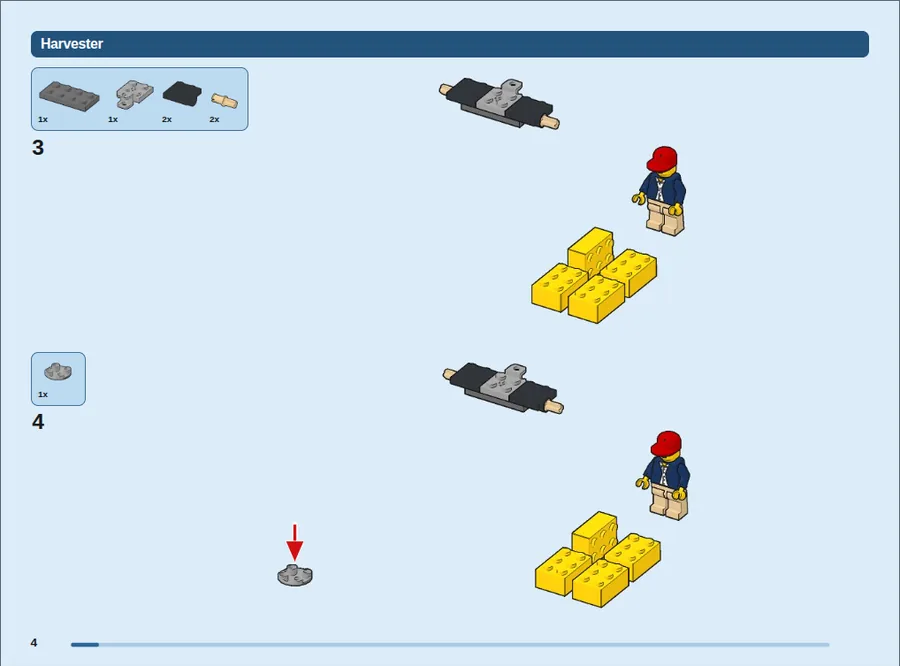
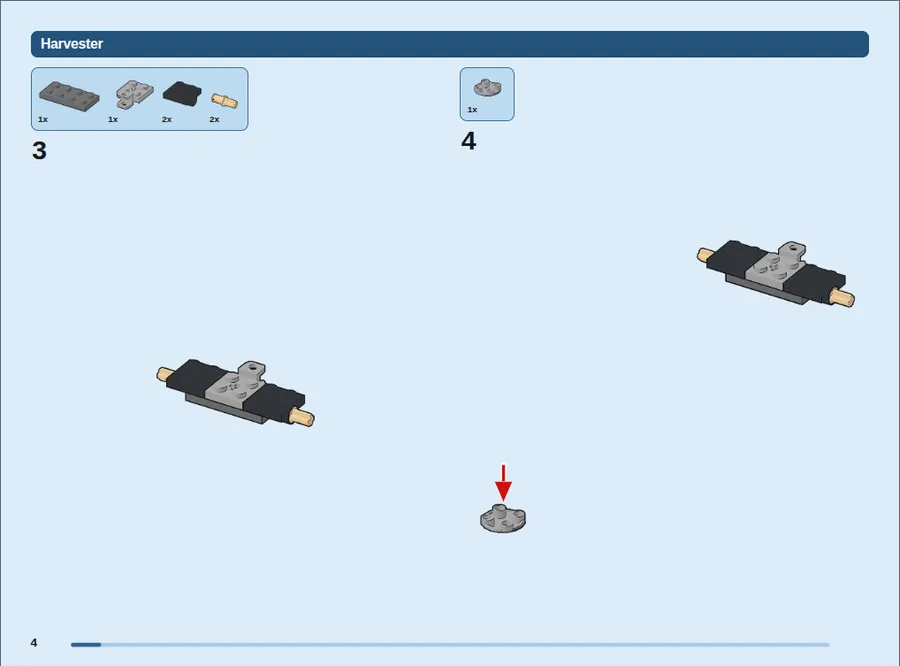
The booklet's steps measured buildable on sets nobody tuned on
On the held-out sample, against main, things put in under one already
there fell from 19.6% to 11.3%, steps with a hidden new thing from 19.2%
to 13.8%, and steps with a floating thing from 18.1% to 14.9%. Order
agreement held, 0.27 to 0.31. Planning takes 1.2 times main's, and the
Snowspeeder plans in 0.58 s.

The 8% aimed at for floating and put in under was missed. A model turned
on its stand, the Technic sets and vehicles built before their wheels
stand in the way, and INSTRUCTIONS.md says how much each.

The pages were read: 7636's harvester begins on a stage of its own, and
6718's warrior is a callout again. The booklet probe now builds its plates
against the wall, where the turn sign is still needed, and checks the
plates a hand's width away are drawn on their own.

The flexible-parts search is paced like the rest of the sub-assembly
search: on Orthanc that search had a frame of 120 ms of its own.

diff --git a/docs/INSTRUCTIONS.md b/docs/INSTRUCTIONS.md
@@ -13,11 +13,11 @@ keeps it so.
 This page measures how close those worked-out steps come to the steps people
 chose for real sets, says what the measure showed, and what changed.
 
-**In short** (2026-10-15, two samples of 100 sets):
+**In short** (2026-10-16, two samples of 100 sets):
 
 - **Order.** Our worked-out order agrees with the author's at Kendall tau
-  0.27 to 0.29 on the two samples, before this work and after it alike,
-  barely above sorting by height (0.23, 0.25). A graph transformer trained on LEGO® build orders reached 0.44
+  0.28 on tune and 0.31 on the held-out sample, where it was 0.27 to 0.29
+  before this work, barely above sorting by height (0.23, 0.25). A graph transformer trained on LEGO® build orders reached 0.44
   [gt-asp]. Nearly all of the gap is which sub-model the author builds first:
   built in the author's order of sub-models, ours would score 0.86, and no
   rule from the model's shape gets past 0.26. The shape does not say it.
@@ -27,16 +27,21 @@ chose for real sets, says what the measure showed, and what changed.
   (paired change +0.22, 95% interval +0.16 to +0.29, better in 61 files and
   worse in 2), and steps with a floating part 15.0% to 11.4%.
 - **Every step buildable.** One step in five of ours left a part floating,
-  against one in thirty of the authors', because the planner reads what
-  rests on what from bounding boxes. Technic pins now go into one part
-  before the next goes on: on the held-out sample, steps with a floating
-  thing 20.9% to 17.9% (paired -3.0, -4.8 to -1.3) and steps with a hidden
-  new thing 21.5% to 19.6% (-1.9, -3.7 to -0.3). The app's own build check
-  moves the same way, within its noise. Reading the parts' shapes instead
-  was tried: fourteen times the planning time for a small gain, so it is the
-  next unit, not this one.
+  against one in thirty of the authors', because the planner read what
+  rests on what from bounding boxes. It now reads the studs, by the build
+  check's own rule. On the held-out sample, against the code before it:
+  things put in under one already there 19.6% to 11.3% (paired -8.4, -13.4
+  to -4.8), steps with a hidden new thing 19.2% to 13.8% (-5.4, -8.6 to
+  -2.7), and steps with a floating thing 18.1% to 14.9% (-3.2, -5.2 to
+  -1.4). The authors': 0.8%, 6.7% and 3.4%. Order agreement did not suffer
+  (0.27 to 0.31, +0.03, -0.01 to +0.08), and the 100 files plan in 19.2 s
+  where they took 16.0 s. The aim was 8% for floating and for put in under.
+  A model turned on its stand, the Technic sets and vehicles built before
+  their wheels stood in the way (What is left).
 - **Pages.** A small model is no longer cut into "Part 1" and "Part 2": 918
-  Space Transport's booklet lost a one-step page and a repeated banner.
+  Space Transport's booklet lost a one-step page and a repeated banner. A
+  section that touches nothing built before it is drawn on its own: 7636's
+  harvester no longer begins in the air above the hay bales.
 
 ## The measure
 
@@ -230,11 +235,56 @@ same part on the same layer, and from twice as far (one-part steps 39.4% to
 37.6%, nothing else moved); a part hanging under another put in with it (no
 change); covers (above).
 
+Then what rests on what, 2026-10-16:
+
+4. **By the studs, not the boxes** (`Instructions._supports_of`,
+   `Joints.studs_in`, `Instructions.Covers`). A stud reaching up into a
+   part means that part sits on the stud's owner; reaching down, the part
+   is turned over on top of it. The stud's direction says which of two
+   parts rests on the other, where covers read as touching said each rested
+   on each. The rule is the build check's, moved into `Joints.studs_in`:
+   the check asks its lattice what is past a stud's tip, and the booklet,
+   which holds no lattice, asks the few parts whose boxes hold the tip
+   whether their covers do, each in its own frame. `instructions_probe`
+   holds the two to the same 816 stud pairs on the station. A part no stud
+   seats (a figure's, a Technic beam, a tile on a side stud) rests on what
+   its box sits on, as before.
+5. **A plate pressed up under parts goes in with them** (`_pressed_up`).
+   A 1 x 3 under a sign, a 2 x 2 under a lantern: read by its studs alone,
+   what it carries needs it, so it went in first, on nothing. It goes in in
+   the step of the last part it is under.
+6. **A part on a side stud waits for what holds it** (`Node2.held_by`),
+   not only for what its box sits on. Vernie's tiles went on before the
+   bricks whose side studs hold them.
+7. **A sub-model put on at an angle is built on the side** (`_turned`), of
+   any size up to half the model: square, in the hand, with steps of a
+   page's size, then put on turned. On the five biggest tune files, 19 in
+   20 of the things put in under were turned parts of a sub-model too big
+   to be a callout, and their authors put in none.
+8. **A loop gives up a guess before a callout** (`_contract`, `_ease`).
+   Needs guessed from touching boxes go first, then those read off a box,
+   and only then the smallest sub-assembly on the loop. A hose drawn
+   through a figure's hand had cost a 664-part trailer, a locomotive and
+   the figures riding them their callouts.
+9. **A flexible thing goes in as one** (`_find_bundles`). 6891's hose,
+   drawn a segment at a time, was 52 things floating, in 28 of its 83 steps.
+10. **A section that touches nothing built before it is drawn on its own**
+    (`BookletMaker._find_apart`), framed on itself as a booklet draws a
+    second vehicle, until the build moves on. What it touches is read off
+    the parts' boxes.
+
+Tried and not kept: reading clips, hinges and balls as well (`Joints.rounds`,
+`balls`). They changed nothing measured but the planning time, 2.5 s to
+4.1 s on fifteen files.
+
 ## After
+
+### The author's steps and Technic pins (2026-10-15)
 
 **Proof**, the sample nothing was tuned on: 100 files, 52,435 parts. Before
 is the code at 7a55e86, after is this change; the interval is after's, and
-`compare` gives the paired change file by file (in "In short").
+`compare` gives the paired change file by file: steps with a floating thing
+-3.0 (-4.8 to -1.3), steps with a hidden new thing -1.9 (-3.7 to -0.3).
 
 | Measure | the author's | the booklet's reading of them, before → after | ours, before → after | ours, no sub-models, before → after | bottom up |
 |---|---:|---:|---:|---:|---:|
@@ -262,6 +312,57 @@ is the code at 7a55e86, after is this change; the interval is after's, and
 | parts the build check calls floating at sampled steps | 6.0% | – | 12.8% → **11.9% (6.3–18.7)** | 18.7% → **17.2% (10.2–25.0)** | – |
 | steps in all | 9,633 | 9,794 → 9,992 | 14,306 → 13,579 | 12,730 → 11,804 | 6,710 |
 
+### What rests on what, by the studs (2026-10-16)
+
+**Proof**, 100 files, 52,435 parts. Before is main at 2789cd0, whose plans
+are file for file those of main when this work began; after is this change
+on it. Both ran on this machine the same morning; the interval is after's.
+The paired change, file by file
+(`compare`): things put in under -8.4 (-13.4 to -4.8), steps with a hidden
+new thing -5.4 (-8.6 to -2.7), steps with a floating thing -3.2 (-5.2 to
+-1.4), tau +0.03 (-0.01 to +0.08), better in 54 files and worse in 46.
+
+| Measure | the author's | the booklet's reading of them, before → after | ours, before → after | ours, no sub-models, before → after | bottom up |
+|---|---:|---:|---:|---:|---:|
+| Kendall tau-b against the author | 1.00 | 0.94 → **0.93 (0.89–0.96)** | 0.27 → **0.31 (0.24–0.37)** | 0.26 → **0.28 (0.22–0.34)** | 0.25 |
+| author's same-step pairs kept together | 100.0% | 95.6% → **94.8% (86.6–98.6)** | 10.9% → **12.0% (8.8–18.0)** | 8.9% → **18.6% (8.7–37.0)** | 9.1% |
+| steps for each of the author's | 1.00 | 1.00 → **1.00 (1.00–1.03)** | 1.14 → **1.10 (1.02–1.26)** | 0.96 → **0.93 (0.85–1.07)** | 0.77 |
+| author's sub-assemblies built on the side | 97.9% | 64.7% → **62.0% (51.7–72.3)** | 39.5% → **54.1% (42.3–66.2)** | 0.0% → **0.0% (0.0–0.0)** | 0.0% |
+| steps with a hidden new thing | 6.7% | 9.3% → **8.7% (6.9–10.5)** | 19.2% → **13.8% (11.1–16.4)** | 23.5% → **22.0% (18.9–25.0)** | 21.0% |
+| things put in under one already there | 0.8% | 13.1% → **8.1% (5.4–11.2)** | 19.6% → **11.3% (6.0–17.6)** | 22.0% → **20.3% (13.2–28.1)** | 26.1% |
+| steps with a floating thing | 3.4% | 11.4% → **9.6% (6.7–12.8)** | 18.1% → **14.9% (11.2–18.9)** | 21.9% → **20.8% (16.5–25.2)** | 25.9% |
+| parts the build check calls floating at sampled steps | 3.1% | – | 20.5% → **21.3% (12.2–31.7)** | 25.6% → **26.0% (15.9–38.3)** | – |
+| steps in all | 11,890 | 12,230 → 12,274 | 13,090 → 14,561 | 12,098 → 11,740 | 7,350 |
+
+More of the authors' sub-assemblies are built on the side (39.5% to 54.1%),
+from sub-models put on at an angle, and there are more steps (13,090 to
+14,561). The booklet's reading of the authors' own steps gains too, since it
+reads support and finds sub-assemblies the same way: things put in under
+13.1% to 8.1% (-5.0, -8.1 to -2.4).
+
+**Tune**, 100 files, 48,037 parts, against the code of the section above:
+things put in under -11.6 (-17.2 to -7.1), steps with a hidden new thing
+-6.2 (-8.8 to -3.4), steps with a floating thing -4.2 (-6.4 to -1.8), tau
+-0.01 (-0.05 to +0.03). Same-step pairs kept together jump on one file:
+9391's crane string, drawn in 681 pieces its author puts on in one step, now
+goes in as one flexible thing.
+
+| Measure | the author's | the booklet's reading of them, before → after | ours, before → after | ours, no sub-models, before → after | bottom up |
+|---|---:|---:|---:|---:|---:|
+| Kendall tau-b against the author | 1.00 | 0.92 → **0.91 (0.87–0.95)** | 0.29 → **0.28 (0.21–0.34)** | 0.22 → **0.22 (0.16–0.28)** | 0.23 |
+| author's same-step pairs kept together | 100.0% | 92.5% → **93.1% (82.0–98.6)** | 6.1% → **31.2% (6.1–62.3)** | 3.8% → **64.7% (26.3–82.7)** | 4.1% |
+| steps for each of the author's | 1.00 | 1.02 → **1.02 (1.00–1.04)** | 1.25 → **1.29 (1.08–1.54)** | 1.13 → **1.15 (0.88–1.29)** | 0.83 |
+| author's sub-assemblies built on the side | 97.4% | 64.7% → **62.2% (55.8–69.2)** | 40.1% → **57.1% (50.7–64.0)** | 0.0% → **0.0% (0.0–0.0)** | 0.0% |
+| steps with a hidden new thing | 6.0% | 8.3% → **8.0% (6.6–9.8)** | 19.9% → **13.7% (11.9–15.6)** | 25.4% → **21.4% (18.6–23.9)** | 23.0% |
+| things put in under one already there | 1.2% | 11.7% → **7.7% (5.7–10.1)** | 19.4% → **7.9% (5.8–10.2)** | 23.2% → **17.4% (13.8–21.7)** | 26.1% |
+| steps with a floating thing | 2.9% | 11.8% → **10.0% (7.3–12.9)** | 16.9% → **12.8% (9.7–15.7)** | 20.8% → **20.0% (16.1–23.8)** | 29.4% |
+| parts the build check calls floating at sampled steps | 6.0% | – | 11.9% → **11.3% (5.6–19.9)** | 17.2% → **13.8% (7.7–21.7)** | – |
+| steps in all | 9,633 | 9,992 → 9,983 | 13,579 → 13,450 | 11,804 → 9,656 | 6,710 |
+
+Planning took 19.2 s over the 100 proof files, against 16.0 s on main
+(1.2 times), the slowest file 2.0 s (76161, 2,396 parts); on tune 20.6 s
+against 18.2 s. The 1,454-part Rebel Snowspeeder plans in 0.58 s, against 0.59 s.
+
 ## The pages
 
 Booklets of three proof models with their steps taken out, made on the
@@ -280,19 +381,47 @@ After: one build, four steps to the first page, 25 steps where there were 29.
 
 ![918 after, page 2](instructions/918-after-page2.webp)
 
-Still reading badly, and left: 7636 Combine Harvester builds its sections in
-place, so the harvester's first axle plate is drawn in the air above the hay
-bales and the farmer of the sections before it, and a 2 x 2 round plate on
-the ground far from both is a step of its own. A real booklet draws a new
-vehicle on its own. Framing a section on itself when it touches nothing built
-before it is the booklet's next fix, with lifting the size limit on what is
-built on the side.
-
-![7636 after, page 4](instructions/7636-after-page4.webp)
-
 Callouts read as before: a figure built in its own box with an arrow to its
 seat (918 step 5), and a long sub-assembly on framed pages of its own (6059
 Knight's Stronghold's cart).
+
+Then, reading the studs (2026-10-16), two more proof models, made the same
+way on the desktop with main at 2789cd0 and with this change.
+
+7636 Combine Harvester (372 parts), before: the harvester's first axle plate
+is drawn in the air above the hay bales and the farmer of the sections before
+it. Three of the 2 x 2 round plates its base stands on are steps of their
+own, on the ground, and the base goes down at one end, then the other, then
+across the middle.
+
+![7636 before, page 4](instructions/7636-before-page4.webp)
+![7636 before, page 7](instructions/7636-before-page7.webp)
+
+After: the harvester begins on a stage of its own. One round plate is still
+a step of its own; the next goes in in the step of the plate pressed onto
+it, and the base grows from one end. 101 steps where there were 109.
+
+![7636 after, page 4](instructions/7636-after-page4.webp)
+![7636 after, page 5](instructions/7636-after-page5.webp)
+
+Each of its first 40 pages can be built as drawn. What still reads badly:
+the axle plate of step 3 hangs in the air beside the base until step 18
+joins them. By the measure 75 of its 100 steps float a thing (61% before),
+because the harvester stands on its wheels, which go on last, and the
+measure holds only the model's first parts, the hay bales, to the table.
+
+6718 Raindance Ridge (80 parts), before: the warrior is built in place, a
+torso and two legs in step 12 and the hips that join them a step later, in
+between.
+
+![6718 before, page 8](instructions/6718-before-page8.webp)
+
+After: he is a callout, built whole and put on, and so are the rider and the
+horse. 17 steps where there were 28. By the measure, on its shuffled copy,
+steps with a floating thing 25.0% to 0.0% and things put in under 24.7% to
+8.3%.
+
+![6718 after, page 7](instructions/6718-after-page7.webp)
 
 ## What is left
 
@@ -302,20 +431,38 @@ Knight's Stronghold's cart).
   person's own model lists them in the order they made them. Following it
   would be reading, not planning, and on these files it reads the answer, so
   it was not done here; it is the obvious next step for files that carry it.
-- **Every step buildable.** One step in six still floats something by the
-  probe's graph, against one in thirty for authors, and the app's build check
-  calls 12% to 21% of the parts our sampled steps add floating, against 3% to
-  6% of the authors'. The cause is the bounding-box supports above.
-- **Sub-assemblies.** Ours builds on the side only sub-models of at most 60
-  parts and under 30% of the model (`ASSEMBLY_MOST`), 40% of the authors'.
+- **Every step buildable.** On the held-out sample one step in seven still
+  floats something by the probe's graph (14.9%), against one in thirty for
+  authors, and 11.3% of things go in under one already there, against 0.8%.
+  Both miss the 8% this work aimed at. Three things stand in the way:
+  - **A model turned on its stand.** 76161's Batwing stands on its edge.
+    Built in the world's frame, 1,692 of its 2,396 things go in under one
+    already there, 29% of all such things in the sample; without it the
+    sample is at 8.4%. Its author builds it flat and stands it up. A turned
+    sub-model is built on the side up to half the model, and here the whole
+    model is turned.
+  - **Technic.** The 7 Technic files float a thing in 31.5% of steps (38.3%
+    before), the other 93 in 13.2% (15.8%). Their parts are held by pins and
+    axles, and this work read the studs.
+  - **A vehicle that is not built first.** The measure holds only the model's
+    first parts to the table. A body built before its wheels, which go on
+    last as a set's do, floats until they do: 7636's harvester is 75 of its
+    100 steps.
+
+  The app's build check calls 21% of the parts our sampled steps add
+  floating, as before (20.5% to 21.3%, within its noise), against 3% of the
+  authors'.
+- **Sub-assemblies.** Ours builds on the side sub-models of at most 60
+  parts and under 30% of the model (`ASSEMBLY_MOST`), and a sub-model put on
+  at an angle up to half the model: 54% of the authors' (from 40%).
   The rest are built in place as sections. Authors build a floor of a modular
   building apart and stack it; the booklet can show a long callout on pages
   of its own, so lifting the limit for a sub-model that holds together and
   goes on whole is open.
 - **The author's steps as the booklet draws them** still build a big
-  sub-model where it stands, before what it stands on (about 12% of steps
-  float something, against 3% for the author's own build), because only small
-  sub-models become callouts.
+  sub-model where it stands, before what it stands on (9.6% of steps float
+  something on the held-out sample, from 11.4%, against 3.4% for the author's
+  own build), because only small sub-models become callouts.
 
 ## Sources
 

diff --git a/.claude/skills/verify/features/view.md b/.claude/skills/verify/features/view.md
@@ -536,7 +536,11 @@ picture the assistant is shown.
   as before. A
   plate pressed up under parts by its own studs with nothing beneath it goes in
   in the step of the last of them (`_pressed_up`, `Node2.under`), even past the
-  step's size.
+  step's size. On the held-out steps-score sample (2026-10-16, against main at
+  2789cd0): things put in under one already there 19.6% to 11.3%, steps with a
+  floating thing 18.1% to 14.9%, steps with a hidden new thing 19.2% to 13.8%,
+  tau 0.27 to 0.31; planning the 100 files 16.0 s to 19.2 s, the 1,454-part
+  Rebel Snowspeeder 0.58 s.
   Sub-assemblies are built on the side, as a real booklet's callouts are: a
   minifigure (by its parts, `Minifig.is_figure`), and any sub-model the file
   places that is small (at most `ASSEMBLY_MOST`, 60 parts, and under 30% of
@@ -688,8 +692,12 @@ picture the assistant is shown.
   touches nothing built before it (a second vehicle, by the parts' boxes) is
   drawn on a stage of its own for its steps, as a callout is, and framed on
   itself (`BookletMaker._find_apart`, `_where`), for 7636's harvester, which
-  began as an axle plate drawn in the air over the hay bales (its pages after
-  the change not yet looked at). New parts are not
+  began as an axle plate drawn in the air over the hay bales. Read page by
+  page on the desktop (2026-10-16, `--model=… --booklet=…` on Xvfb, then
+  `tools/web/booklet_print.mjs`): 7636's first 40 pages each buildable, the
+  harvester's first steps on a stage of their own, its axle plate still in
+  the air beside the base until step 18 joins them; docs/INSTRUCTIONS.md has
+  the pages. New parts are not
   highlighted: modern booklets keep colours true and rely on the parts box and
   the ink line (the ink shader can ring them, `mark_new`, off). Pictures are
   5 px a millimetre, 4.2 past 300 steps and 3.6 past 1,000 (Orthanc's 1,405
@@ -971,7 +979,9 @@ godot --path . --resolution 1200x800 --script src/dev/shot_probe.gd   # the rend
 godot --path . --resolution 1200x800 --script src/dev/booklet_probe.gd  # the booklet reads like one
 #   every step pictured and framed on the model, new parts in frame, a parts box
 #   with a picture of every part, the shed's 2x callout with two arrows and its
-#   figure, the turn sign behind a wall, the timeline's numbers = the booklet's,
+#   figure, the turn sign behind a wall (plates against its back), plates a hand's
+#   width away drawn on a stage of their own from the front (_find_apart),
+#   the timeline's numbers = the booklet's,
 #   and the app's own toolbar: Instructions after Timeline, pressed, writes
 #   the booklet to Downloads (BookletMaker.open_when_written off, no browser);
 #   the gatehouse (tests/fixtures/steps/gatehouse.mpd) in its author's steps:
@@ -997,7 +1007,11 @@ godot --path . --resolution 1400x900 --script src/dev/handbuild_probe.gd -- only
 node tools/web/steps_flow.mjs --url=http://127.0.0.1:PORT/index.html --out=shots/steps_web
 # In a browser, on a local web export (tools/export.sh web, then
 # python3 tools/web/serve.py build/web PORT): presses Instructions, follows
-# the tab it opens, checks the booklet in it and prints it to booklet.pdf
+# the tab it opens, checks the booklet in it and prints it to booklet.pdf.
+# Serve with --parts assets/generated/parts --delay 0 so parts come from this
+# checkout. 2026-10-16, SwiftShader at load ~50: the car's booklet in 259 s;
+# --model=7636 stalled the page past Playwright's 30 s screenshot once opened,
+# on main's export and the branch's alike, so a big model is for the preview.
 node tools/web/booklet_flow.mjs --url=http://127.0.0.1:PORT/index.html --out=shots/booklet_web
 BW_BYPASS=$VERCEL_BYPASS node tools/web/booklet_flow.mjs --url=<preview>/app --out=shots/booklet_web   # the app's security policy: only a deployment sends it
 godot --path . --resolution 1200x800 --script src/dev/gizmo_probe.gd  # the corner says which way you face

diff --git a/.claude/skills/verify/features/building.md b/.claude/skills/verify/features/building.md
@@ -273,7 +273,9 @@ Pointing at a stud and getting a brick there, selecting several, taking it back.
   work; the timeline's longest frame against 200 ms; the sub-assembly
   search's longest frame of its own, process to drawing, against 100 ms,
   judged in software too (one frame of 161 ms on b79d427: `_find_assemblies`,
-  `_contract` and its loop walk `_cycles` are a slice at a time now); the same steps as
+  `_contract` and its loop walk `_cycles` are a slice at a time now, and the
+  flexible things' search `_find_bundles` too, 120 ms to 58 ms windowed on
+  2026-10-16); the same steps as
   `Instructions.plan`; Cancel and a second press stop it; Open's list says
   "Opening…" before Orthanc lands; delete all and undo say so first; Check
   stability and Everything connected through `Shell.run` on Orthanc, and
